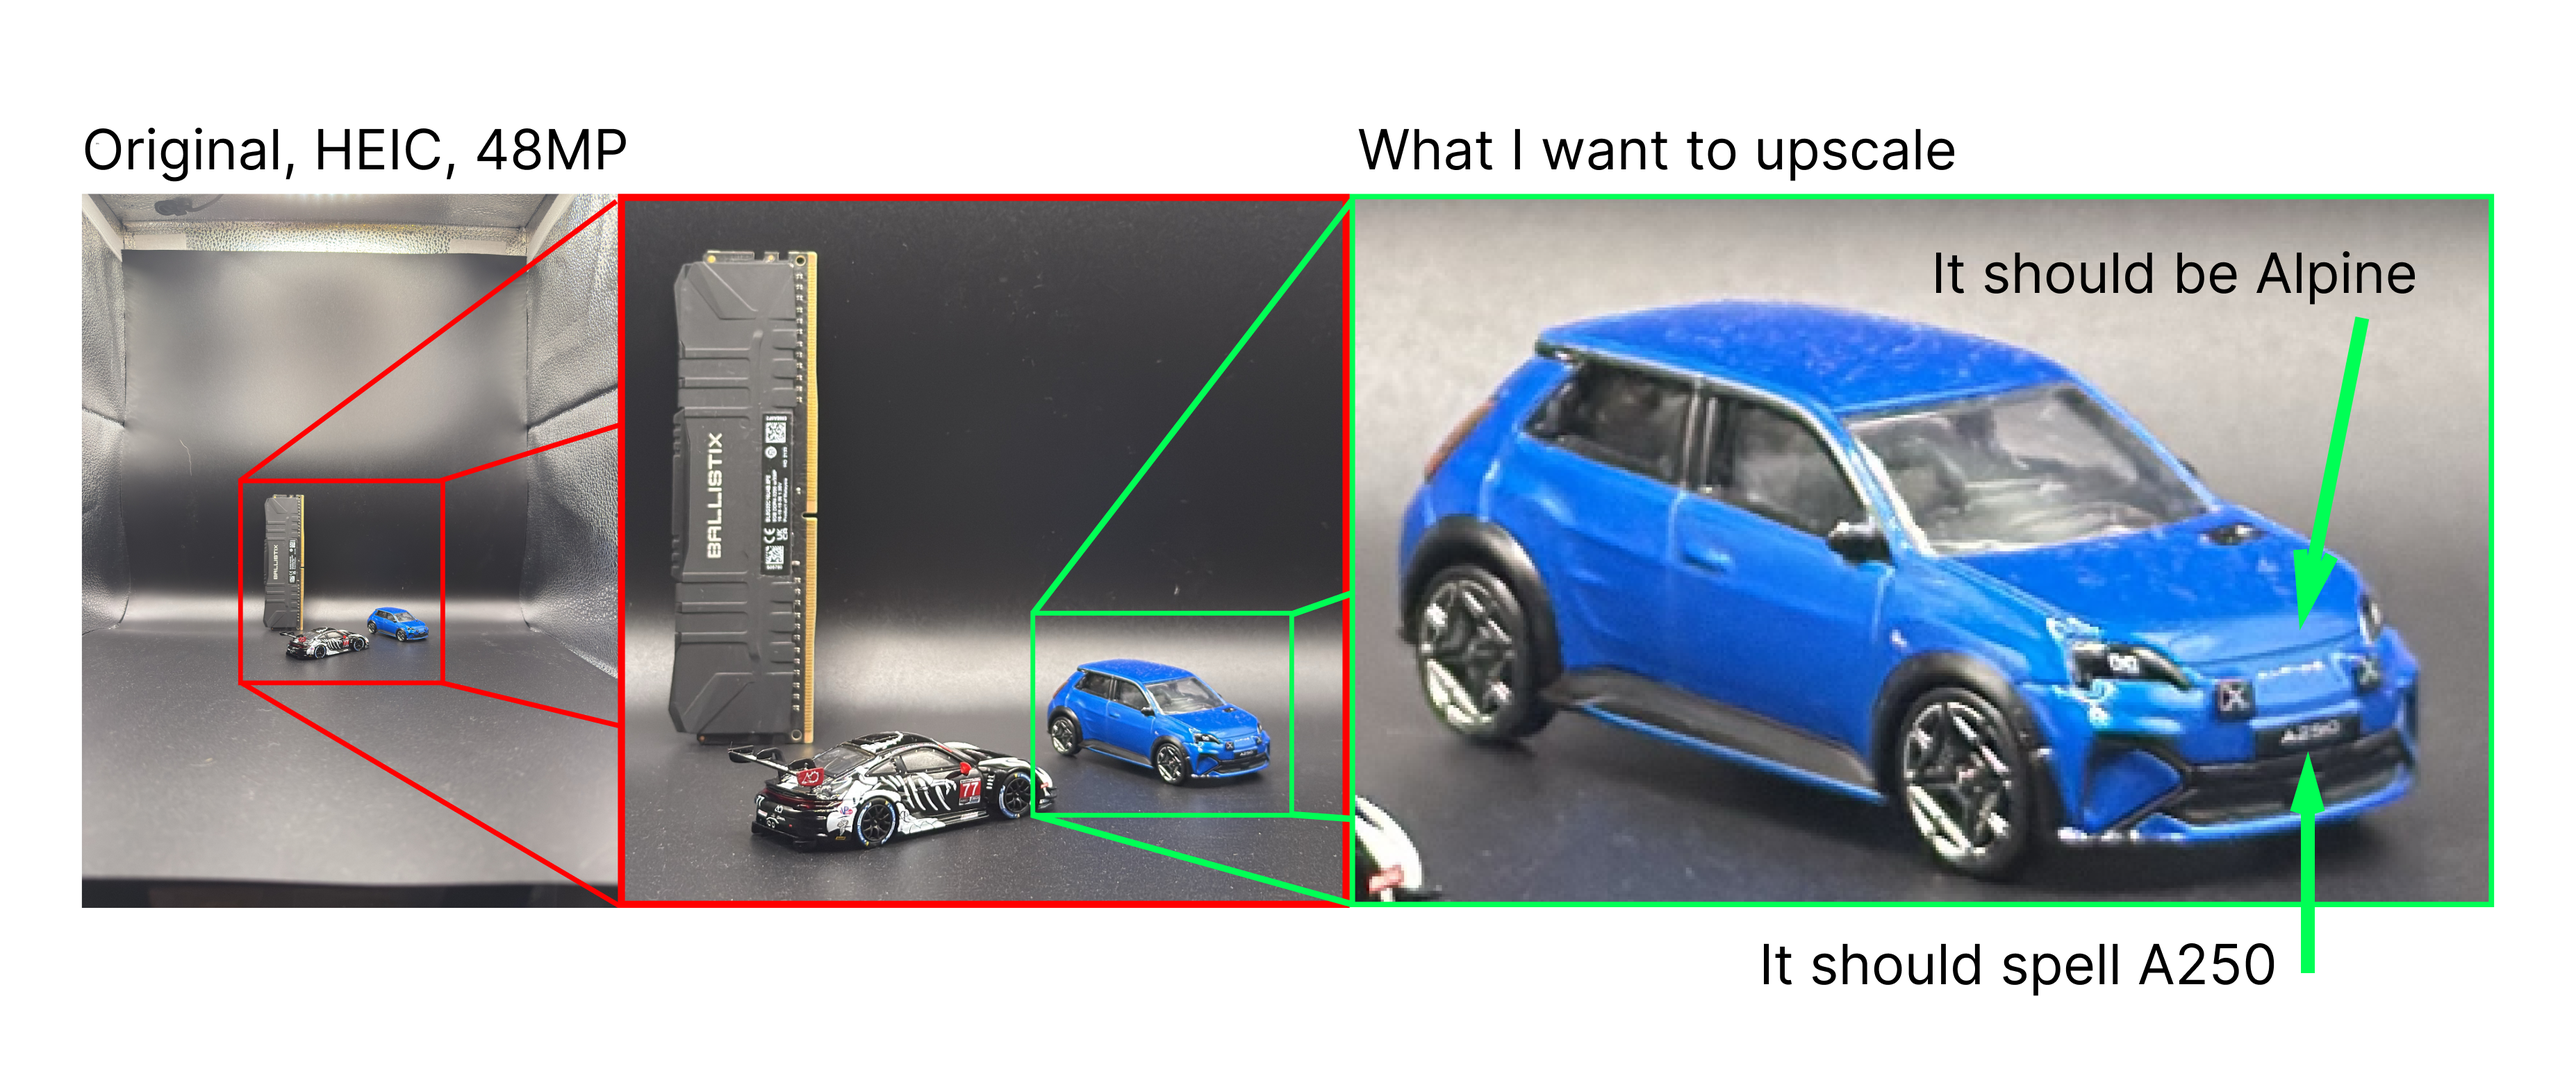
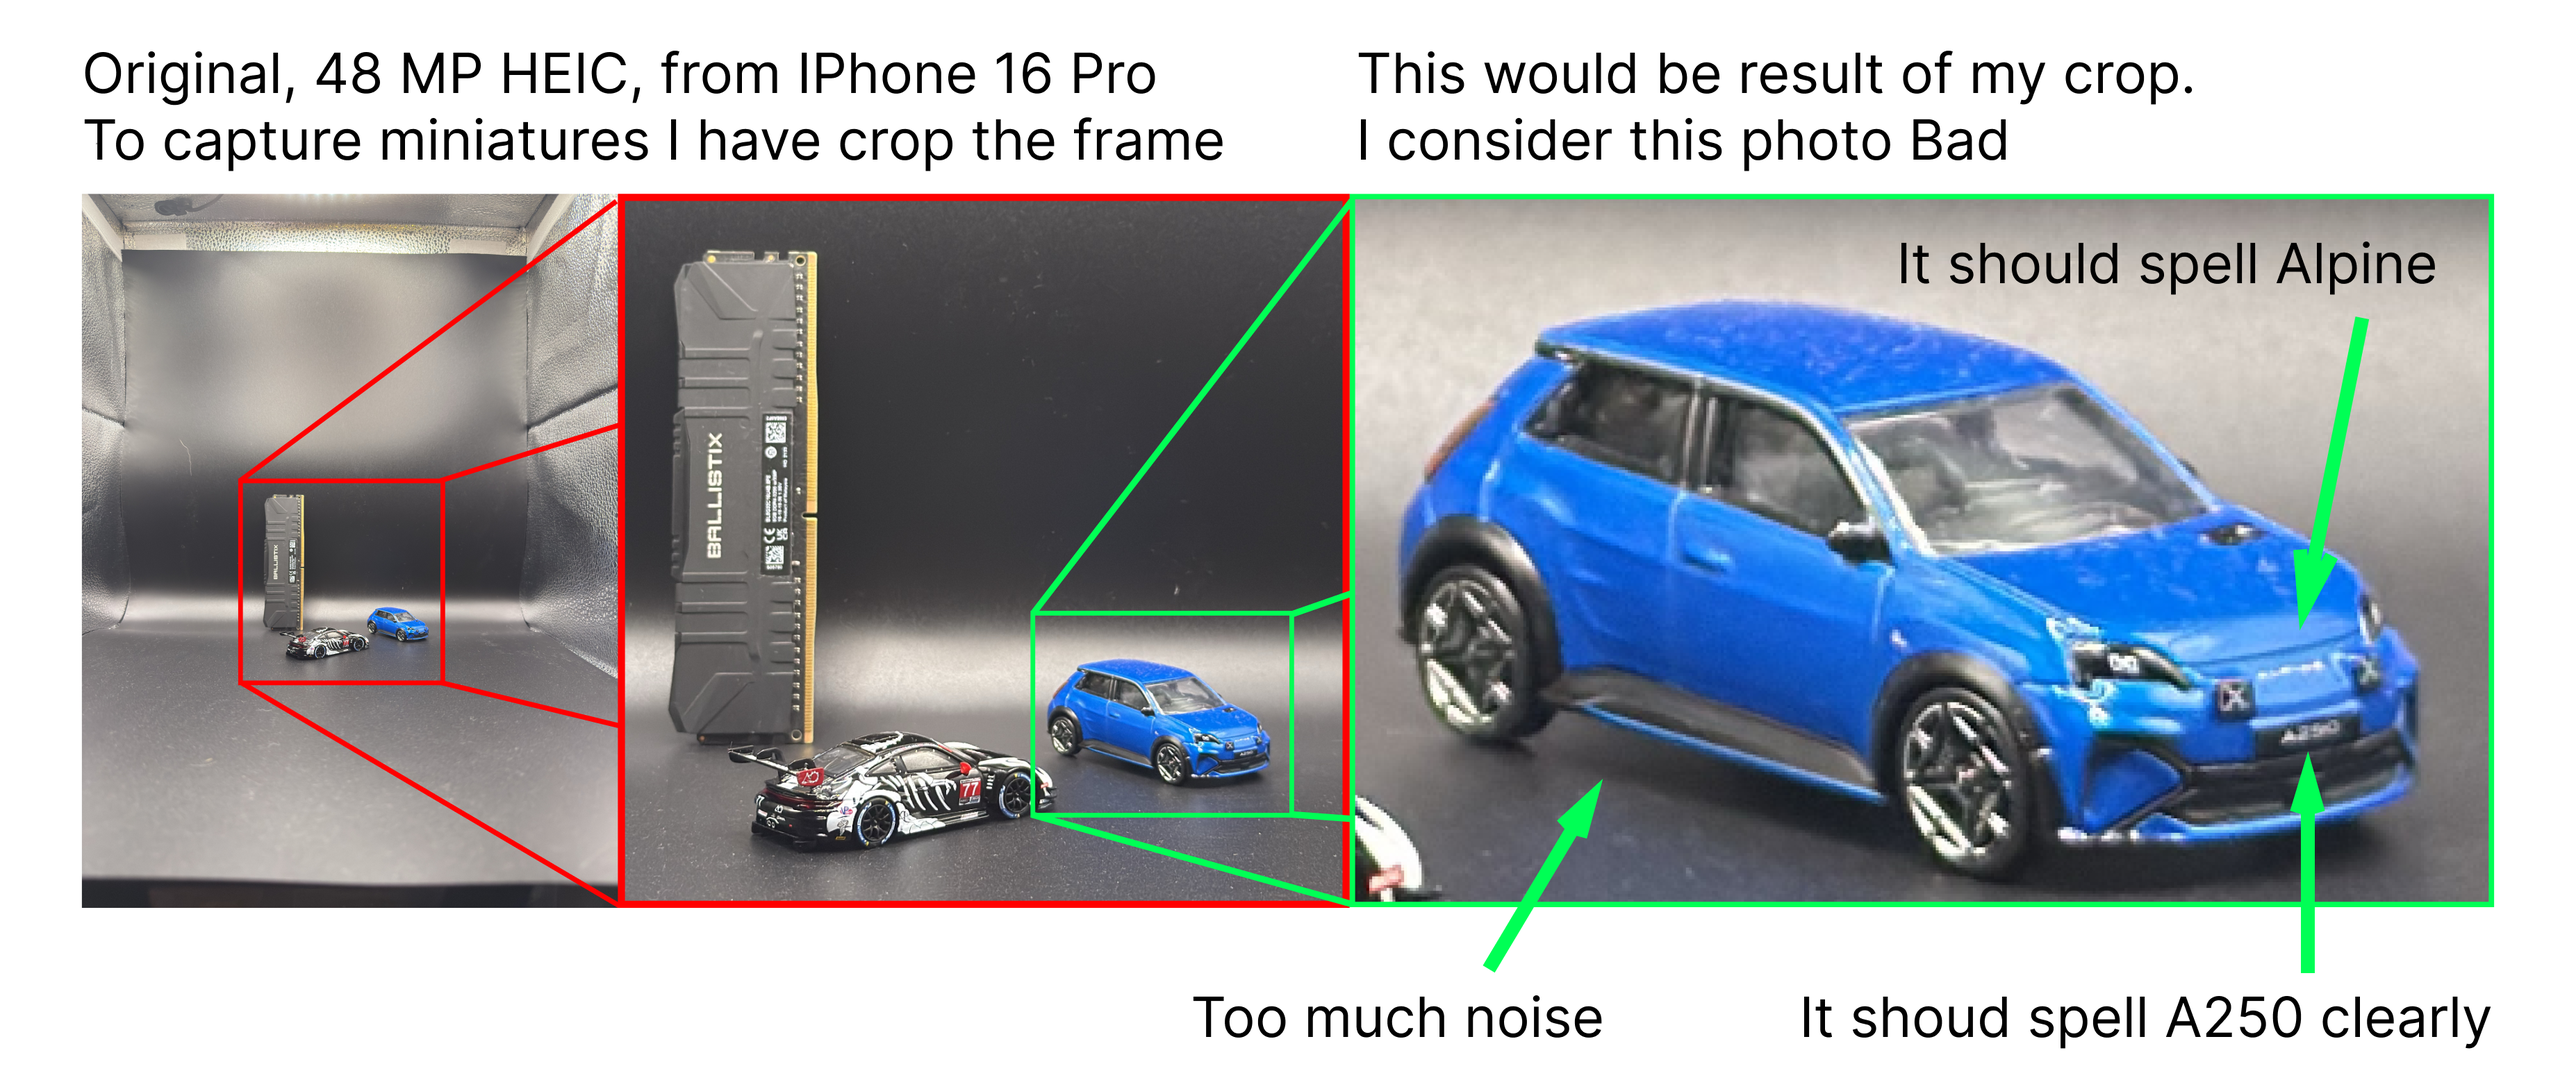
update readme

diff --git a/README.md b/README.md
@@ -1,4 +1,4 @@
-# Upgrading IPhone telephoto miniature images with multi-shot super resolution
+# Using multi-frame super-resolution to upscale bad phone photos
 
 This repository is an *educational* implementation of MSSR technique described in [Park et al, 2003 – "Super-Resolution
 Image Reconstruction:
@@ -12,7 +12,7 @@ I have a phone with decent cameras, but when capturing 1/64 toy cars I get bad r
 
 # Multi shot super resolution
 
-Idea is simple – let us take multiple low resolution (LR) images of one object that would differ slightly. Then, let us combine information from all of them to create a high resolution (HR) image.
+Idea could be explained easily – let's take multiple low resolution (LR) images of one object that would differ slightly. Then, let's combine information from all of them to create a single high resolution (HR) image.
 
 Ref: (Park et al, 2003) https://perso.telecom-paristech.fr/maitre/cours/projet_superresolution/park.pdf
 
@@ -24,9 +24,8 @@ Survey argues:
 2. Let a set of known LR images be $y_k$ ($y_1, y_2, \dots, y_n$)
 3. Then $y_k$ can be described as combination of linear operators:
 
-$$y_k = D\, B_k\, M_k\, x + n_k$$
+    $$y_k = D\, B_k\, M_k\, x + n_k$$
 
-    Where: 
     - $D$ is a subsampling matrix – it is the same for all LR photos
     - $M_k$ is a motion compensation matrix (a slight camera shift)
     - $B_k$ is a blur matrix
